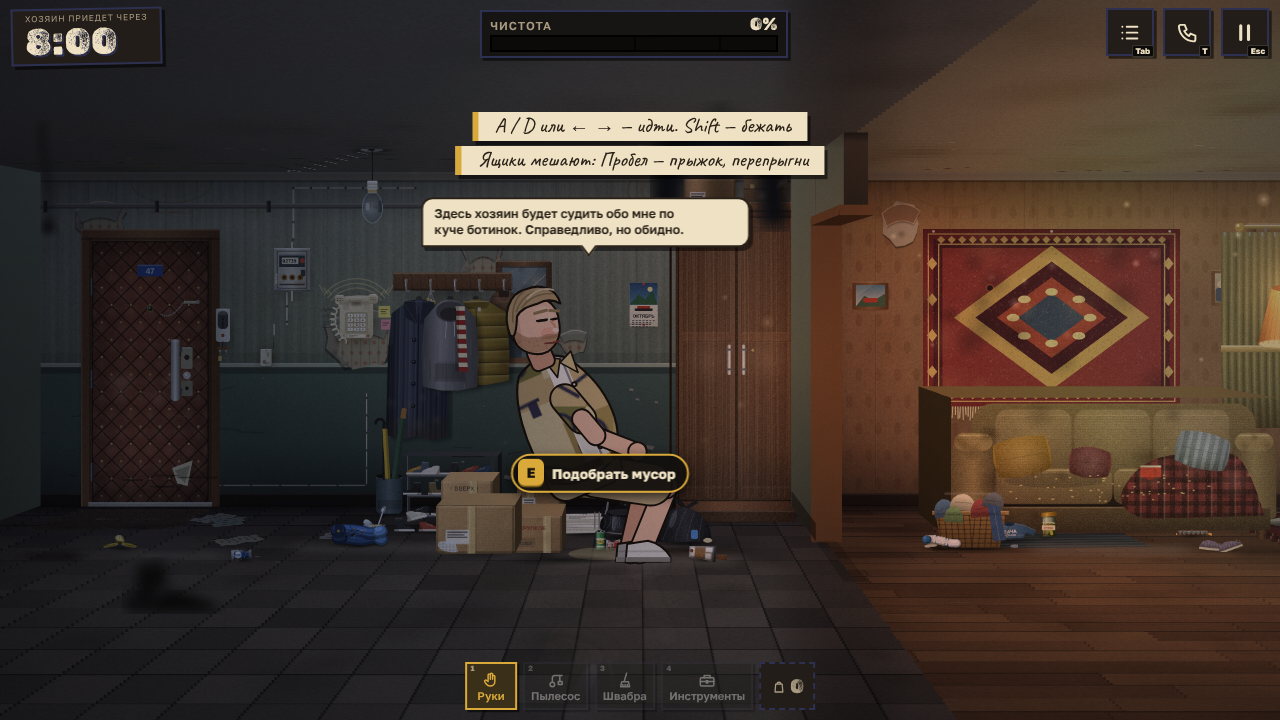
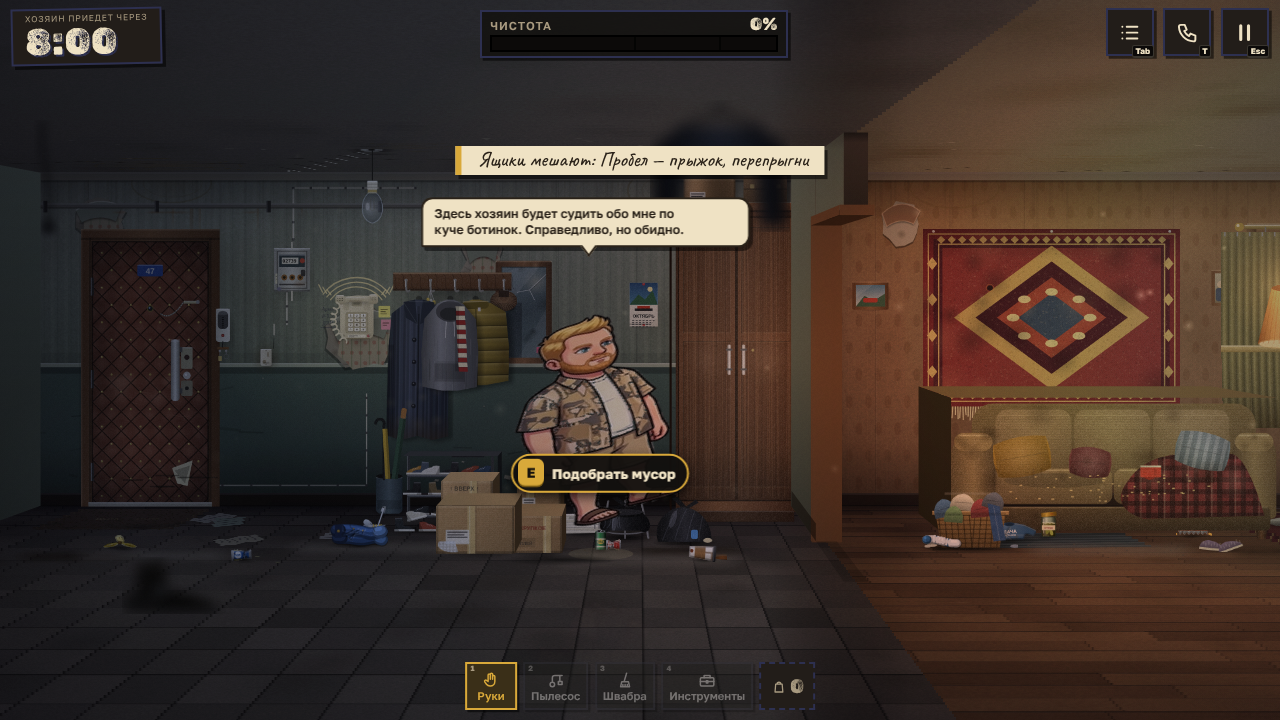
Docs: QA notes for merged prototype
Claude-Session: https://claude.ai/code/session_01Cr2TWfzsTSuZMJmoki1rcL

diff --git a/docs/QA_REPORT.md b/docs/QA_REPORT.md
@@ -21,3 +21,11 @@ Known issues / next steps: fix the fridge scrub-stage error, story call scheduli
 * Fixed: tasks.js crashed on partial/foreign state (S.wash / S.bag undefined) - the repeated page error in the fridge test.
 * Fridge scrub now completes at 88% (was 96%) so a human never gets stuck on the last specks.
 * Remaining test noise: story scheduled-call timing in the harness, UI test dialog step clicking past the last line, mini test 'good food costs 4 s' uses wall-clock drift.
+
+## Update: second prototype merged
+* Hero: full cartoon animation set from bamboul_game_2 (assets/char/toon, 46 frames: idle/walk/run/carry/mop/tool/pickup/throw/panic/victory/jump/skid) is now the default; the realistic painted sprites are available via Settings -> "Реалистичный герой".
+* Portraits for Dan / landlord / Bamboul (shock) from the prototype (assets/portraits).
+* Dialogue: js/dialogue_plus.js - landlord calls 1-4 and Dan's call rewritten from the prototype with extra mat, ~150 new profane barks across categories.
+* Mechanic adapted: stash carried trash in the hall wardrobe (up to 4, 60% credit); the 5th makes it explode (-8 s, trash spills back).
+* Not ported: Three.js 3D renderer, printed flush-button flow (our printer/toilet minigames already cover repair), prototype minigame art.
+* Tests after merge: qa_run PASS (except software-render frame time), test_tasks OK, test_story 41/43 (same 2 scheduling failures as before).
